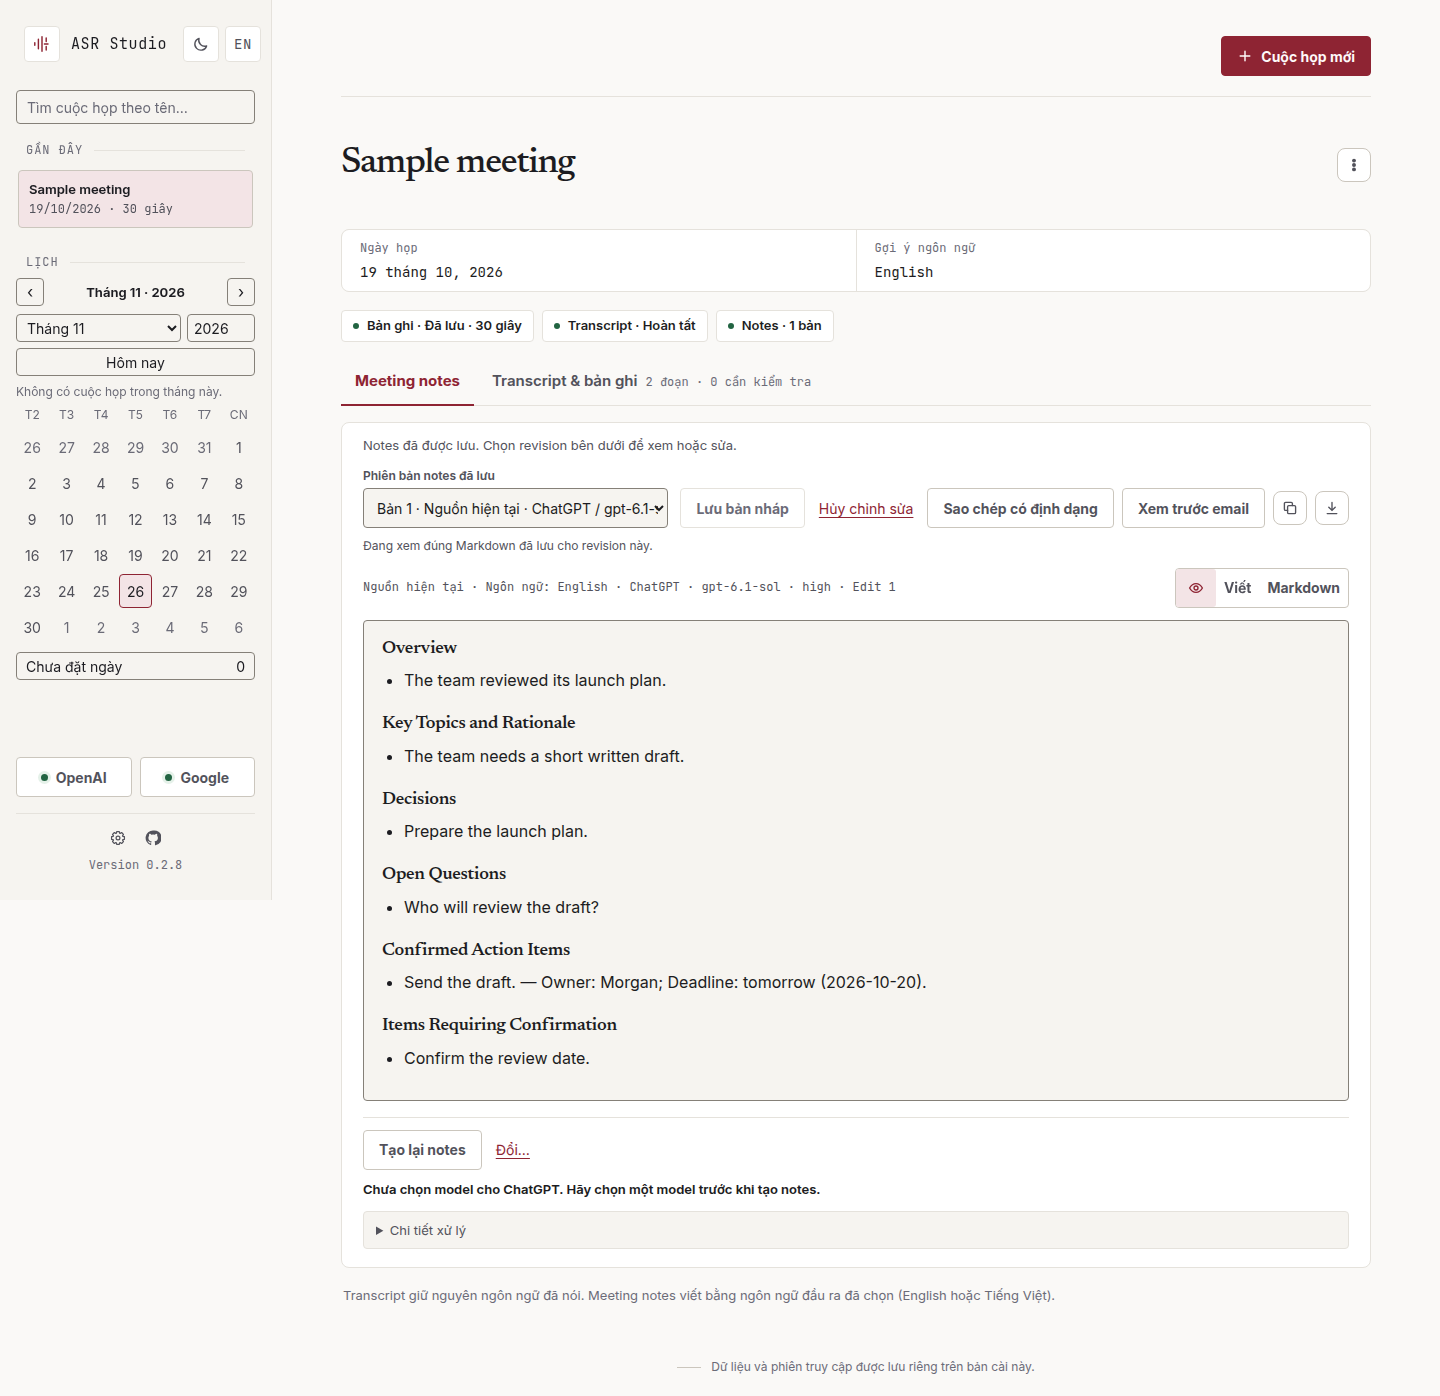
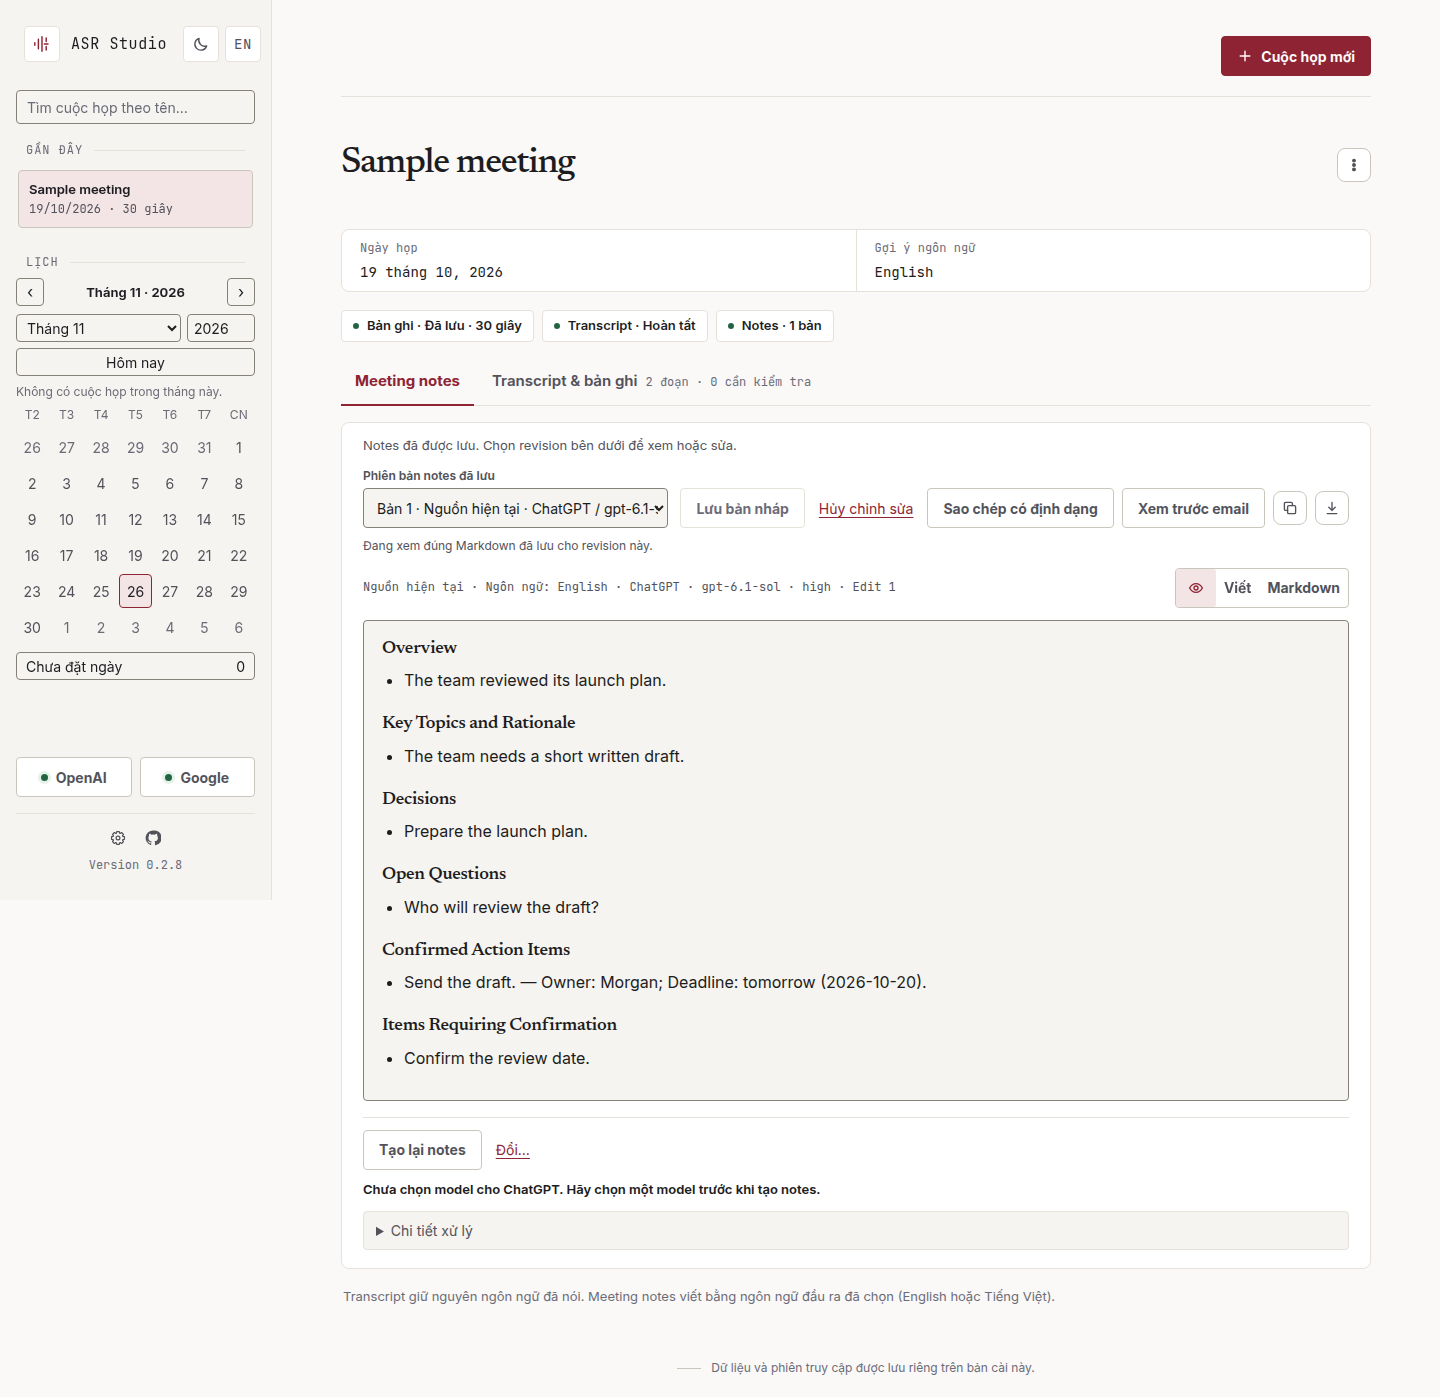
fix: preserve Notes control sizing and assistive text checks

diff --git a/src/asr_studio/web/notes.css b/src/asr_studio/web/notes.css
@@ -261,7 +261,7 @@
 .notes-task-details > summary {
   cursor: pointer;
   color: var(--ink-2);
-  font-size: var(--text-small);
+  font-size: var(--text-control);
 }
 
 .notes-task-details[open] > summary {

diff --git a/tests/test_type_scale.py b/tests/test_type_scale.py
@@ -62,6 +62,8 @@ CUT_TEXT_JS = """() => [...document.querySelectorAll("body *")]
     const text = element.value || [...element.childNodes].some(
       (node) => node.nodeType === Node.TEXT_NODE && node.textContent.trim());
     if (!text || !element.getClientRects().length) return false;
+    // Assistive-only headings remain in the accessibility tree, not the visible layout.
+    if (element.closest(".visually-hidden")) return false;
     const style = getComputedStyle(element);
     if (style.display === "inline" || style.visibility === "hidden") return false;
     if (element.matches("select")) return false;
@@ -812,3 +814,24 @@ def test_transcript_controls_drop_below_title_at_medium_width(live, signed_in):
         }"""
     )
     assert geometry["controlsTop"] >= geometry["titleBottom"] - 0.5, geometry
+
+
+@pytest.mark.browser
+def test_clipping_probe_ignores_assistive_text_but_detects_visible_overflow(live, signed_in):
+    _context, page = signed_in(viewport={"width": 1440, "height": 900})
+    page.goto(f"{live.url}/")
+    page.evaluate(
+        """() => {
+          const hidden = document.createElement("div");
+          hidden.className = "visually-hidden";
+          const heading = document.createElement("h3");
+          heading.textContent = "Assistive heading probe";
+          hidden.append(heading);
+          const clipped = document.createElement("p");
+          clipped.style.cssText = "width:10px;white-space:nowrap;overflow:hidden";
+          clipped.textContent = "Visible text that must be detected.";
+          document.body.append(hidden, clipped);
+        }"""
+    )
+    expect(page.get_by_role("heading", name="Assistive heading probe")).to_have_count(1)
+    assert page.evaluate(CUT_TEXT_JS) == ["P. Visible text that must be detected."]

diff --git a/docs/architecture-changes.md b/docs/architecture-changes.md
@@ -3056,4 +3056,6 @@ Tag: architecture, design. Target: [Frontend design §11.7](frontend-design.md#1
 
 **Evidence and follow-ups.** [Before/after fixture images and keyboard focus](assets/frontend/issue-282/), `tests/test_browser_notes_layout.py`, and existing Notes/editor/provider browser workflows. Independent tester, final reviewer and remote CI remain conductor-owned gates. [Issue #282](https://github.com/nguyencanhtrung/asr-studio/issues/282); adjacent Transcript and Settings corrections belong to #283 and #284.
 
+**Accessibility regression.** The processing disclosure uses the control type token. Layout probes distinguish assistive-only headings from visible clipping; a deliberate visible overflow remains detectable. The typography matrix retains its existing font, keyboard and overflow requirements.
+
 **Tag / target.** Design; `DESIGN.md` and `docs/frontend-design.md`.
